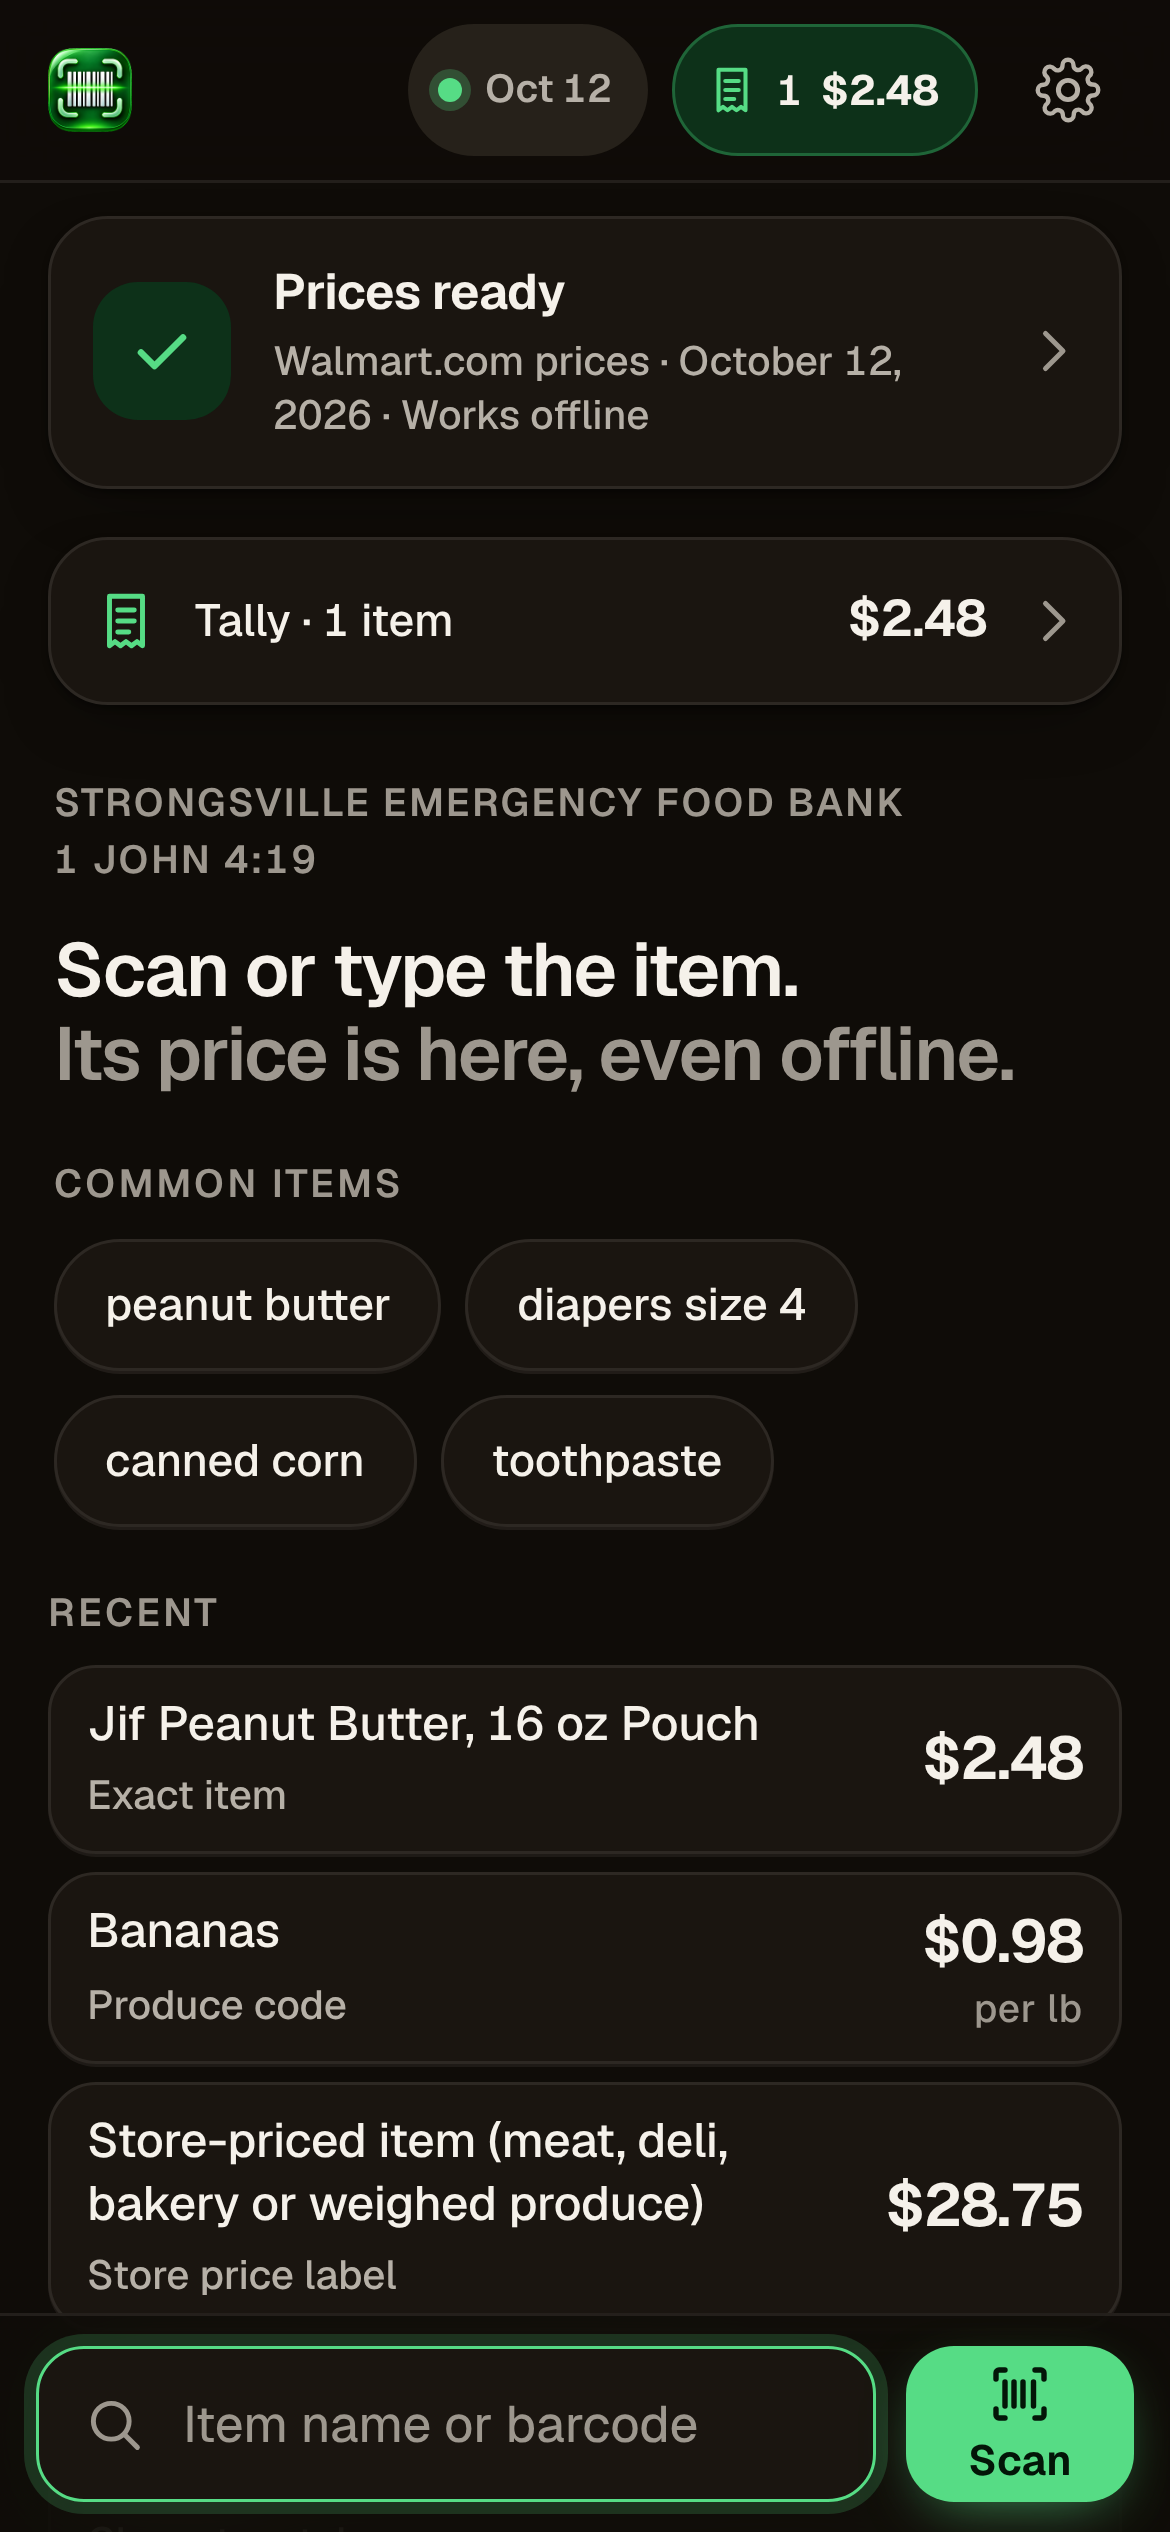
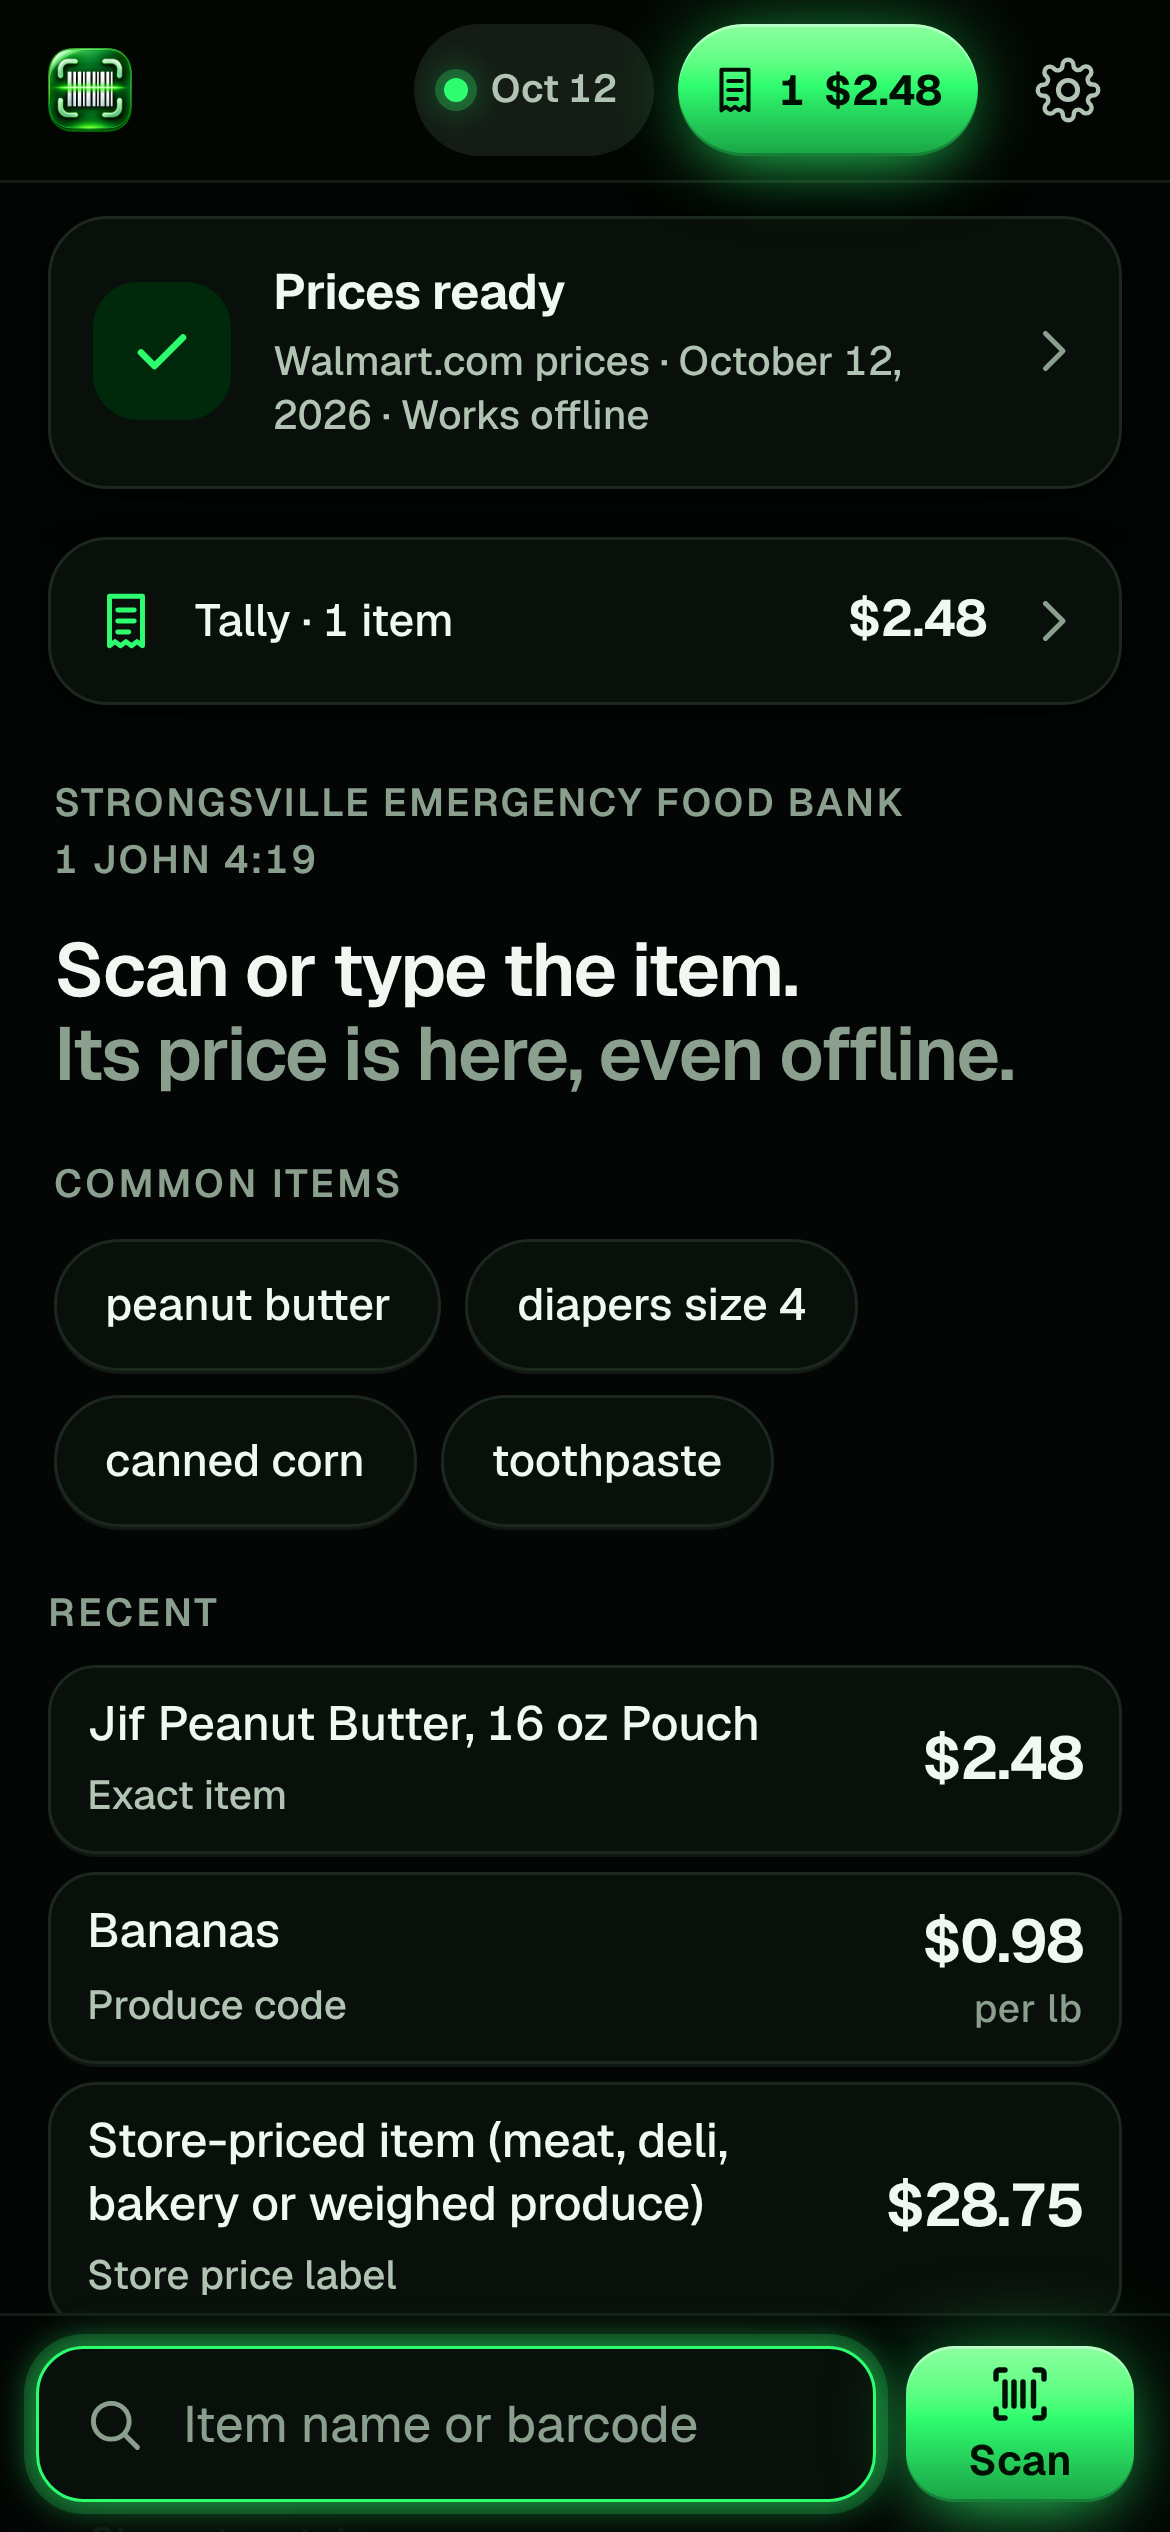
App colour scheme: neon green on black in the dark theme, glossy primary controls in both
Dark theme (owner): the app icon's own neon green on a near-black green-tinted background, with
gloss on the Scan button, the primary action, the tally pill and the switches (lit top edge, deeper
foot, a halo) and a glowing ready dot. Light theme: warm paper with the deep green and the same
gloss. Theme-colour metas follow. Tokens --gloss-hi, --gloss-lo, --glow and --glow-dot in app.css.

Verified on the built app in Chromium, light and dark, three sizes: audit clean (no contrast
failures, no small text, no page errors). Screenshots refreshed.

Claude-Session: https://claude.ai/code/session_01XgfKgQNjHJmxSNKm1G3Yfj

diff --git a/app/public/app.css b/app/public/app.css
@@ -645,3 +645,65 @@ html:has(dialog[open]), html:has(.scanner:not([hidden])) { overflow: hidden; }
 .howto-card { padding: 14px 16px 12px; border-radius: var(--r-l); border: 1px dashed var(--line-2); background: color-mix(in oklab, var(--surface) 60%, transparent); }
 .howto-card .h2 { margin-bottom: 4px; }
 .howto-card .howto { font-size: 14.5px; padding-left: 20px; }
+
+/* ---------- 2026-10-12: colour scheme ----------
+   Dark: neon green on black, the app icon's own green and gloss (owner). Light: warm paper, deep green, the same gloss.
+   --glow is the dark theme's halo on the primary controls and the ready dot; it is transparent in light. */
+:root {
+  --accent: oklch(46% 0.16 150); --exact: oklch(46% 0.16 150);
+  --accent-soft: oklch(93% 0.05 150); --accent-line: oklch(78% 0.1 150);
+  --surface: oklch(99.6% 0.002 90);
+  --gloss-hi: color-mix(in oklab, var(--accent) 78%, white);
+  --gloss-lo: color-mix(in oklab, var(--accent) 80%, black);
+  --glow: 0 0 0 0 transparent;
+  --glow-dot: 0 0 0 0 transparent;
+}
+@media (prefers-color-scheme: dark) {
+  :root:not([data-theme="light"]) {
+    --bg: oklch(11.5% 0.012 150); --bg-2: oklch(9% 0.01 150);
+    --surface: oklch(16% 0.014 150); --surface-2: oklch(21.5% 0.018 150);
+    --line: oklch(26% 0.022 150); --line-2: oklch(34% 0.03 150);
+    --ink: oklch(97% 0.012 150); --ink-2: oklch(80% 0.03 150); --ink-3: oklch(68% 0.035 150);
+    --accent: oklch(87% 0.24 148); --exact: oklch(87% 0.24 148);
+    --accent-ink: oklch(15% 0.05 150); --accent-soft: oklch(24% 0.07 150); --accent-line: oklch(50% 0.15 150);
+    --label: oklch(80% 0.13 250); --plu: oklch(88% 0.17 125); --equiv: oklch(86% 0.16 78); --closest: oklch(78% 0.16 35); --live: oklch(82% 0.13 205); --danger: oklch(72% 0.19 25);
+    --gloss-hi: color-mix(in oklab, var(--accent) 70%, white);
+    --gloss-lo: color-mix(in oklab, var(--accent) 72%, black);
+    --glow: 0 0 30px -6px color-mix(in oklab, var(--accent) 65%, transparent);
+    --glow-dot: 0 0 12px 1px color-mix(in oklab, var(--accent) 55%, transparent);
+    --toast-accent: oklch(44% 0.15 150);
+    --shadow: 0 1px 2px oklch(0% 0 0 / .5), 0 8px 24px -12px oklch(0% 0 0 / .7);
+  }
+}
+:root[data-theme="dark"] {
+  --bg: oklch(11.5% 0.012 150); --bg-2: oklch(9% 0.01 150);
+  --surface: oklch(16% 0.014 150); --surface-2: oklch(21.5% 0.018 150);
+  --line: oklch(26% 0.022 150); --line-2: oklch(34% 0.03 150);
+  --ink: oklch(97% 0.012 150); --ink-2: oklch(80% 0.03 150); --ink-3: oklch(68% 0.035 150);
+  --accent: oklch(87% 0.24 148); --exact: oklch(87% 0.24 148);
+  --accent-ink: oklch(15% 0.05 150); --accent-soft: oklch(24% 0.07 150); --accent-line: oklch(50% 0.15 150);
+  --label: oklch(80% 0.13 250); --plu: oklch(88% 0.17 125); --equiv: oklch(86% 0.16 78); --closest: oklch(78% 0.16 35); --live: oklch(82% 0.13 205); --danger: oklch(72% 0.19 25);
+  --gloss-hi: color-mix(in oklab, var(--accent) 70%, white);
+  --gloss-lo: color-mix(in oklab, var(--accent) 72%, black);
+  --glow: 0 0 30px -6px color-mix(in oklab, var(--accent) 65%, transparent);
+  --glow-dot: 0 0 12px 1px color-mix(in oklab, var(--accent) 55%, transparent);
+  --toast-accent: oklch(44% 0.15 150);
+  --shadow: 0 1px 2px oklch(0% 0 0 / .5), 0 8px 24px -12px oklch(0% 0 0 / .7);
+}
+/* gloss: a lit top edge, a deeper foot, a halo in the dark */
+.scan-btn, .btn--accent, .tally-pill, .stale .btn {
+  background-image: linear-gradient(180deg, var(--gloss-hi) 0%, var(--accent) 46%, var(--gloss-lo) 100%);
+  background-color: var(--accent); color: var(--accent-ink); border: 0;
+  box-shadow: inset 0 1px 0 color-mix(in oklab, white 40%, transparent), inset 0 -1px 0 color-mix(in oklab, black 22%, transparent),
+              0 8px 22px -10px color-mix(in oklab, var(--accent) 70%, transparent), var(--glow);
+}
+.scan-btn:active, .btn--accent:active { filter: brightness(.94); }
+.stale .btn { background-image: none; background-color: var(--ink); color: var(--bg); box-shadow: none; }
+.tally-pill { font-weight: 700; }
+.tally-pill .ico { color: var(--accent-ink); }
+.status[data-state="ready"] .dot { background: var(--accent); box-shadow: 0 0 0 3px color-mix(in oklab, var(--accent) 25%, transparent), var(--glow-dot); }
+.rc-ico, .data-ico, .tally-strip .ico, .live-row .ico { filter: drop-shadow(0 0 0 transparent); }
+.switch[aria-checked="true"] { background-image: linear-gradient(180deg, var(--gloss-hi), var(--accent) 60%); box-shadow: var(--glow-dot); }
+.search:focus-within { border-color: var(--accent); box-shadow: 0 0 0 4px color-mix(in oklab, var(--accent) 18%, transparent), var(--glow-dot); }
+.reticle .laser { background: linear-gradient(90deg, transparent, oklch(87% 0.24 148), transparent); box-shadow: 0 0 14px oklch(87% 0.24 148); }
+.scanner.is-hit .reticle i { border-color: oklch(87% 0.24 148); }

diff --git a/app/public/js/app.js b/app/public/js/app.js
@@ -80,7 +80,7 @@ function applyTheme() {
   const root = document.documentElement;
   if (prefs.theme === "auto") delete root.dataset.theme; else root.dataset.theme = prefs.theme;
   const dark = prefs.theme === "dark" || (prefs.theme === "auto" && matchMedia("(prefers-color-scheme: dark)").matches);
-  document.querySelectorAll('meta[name="theme-color"]').forEach((m) => { m.content = dark ? "#141311" : "#f7f5f0"; });
+  document.querySelectorAll('meta[name="theme-color"]').forEach((m) => { m.content = dark ? "#0a0d0b" : "#f7f5f0"; });
 }
 applyTheme();
 matchMedia("(prefers-color-scheme: dark)").addEventListener("change", applyTheme);

diff --git a/app/public/index.html b/app/public/index.html
@@ -7,7 +7,7 @@
   <meta name="description" content="Strongsville Emergency Food Bank. Scan or type a donated item to see its Walmart price, offline.">
   <meta name="color-scheme" content="light dark">
   <meta name="theme-color" media="(prefers-color-scheme: light)" content="#f7f5f0">
-  <meta name="theme-color" media="(prefers-color-scheme: dark)" content="#141311">
+  <meta name="theme-color" media="(prefers-color-scheme: dark)" content="#0a0d0b">
   <meta name="sfb-live-check" content="">
   <meta name="sfb-build" content="dev">
   <link rel="manifest" href="./manifest.webmanifest">

diff --git a/docs/DECISIONS.md b/docs/DECISIONS.md
@@ -69,6 +69,7 @@ Dated, current decisions; this file wins on conflict. A later entry that replace
 - 2026-10-09 — Downloads on the phone: three files at a time, three retries with back-off; a network failure stops the queue, says "No connection — prices will download when it's back" and retries every 30 s. Updates apply one at a time; unused files are pruned after a swap.
 - 2026-10-09 — Search scores one candidate budget (about 400) shared by the shards in proportion to their matches, at least 40 each; head-noun matches fill up to half of a shard's share. Keystroke p95 12.8 ms at 4× CPU throttle; gold set 328/330.
 - 2026-10-09 — First runs in a browser show "Add this app to your Home Screen" (dismissable, remembered): on an iPhone with the Share › Add to Home Screen steps, because Safari clears a website's saved data after about a week without a visit and a Home Screen app keeps it; on Android with Chrome's own Install button. A full phone during a download says so with the megabytes missing (first install: status and details; later downloads: the header) instead of a generic error; a browser without DecompressionStream (before iOS 16.4) is told to update instead of failing.
+- 2026-10-12 — Colour scheme (owner): the dark theme is neon green on black, the app icon's own green and gloss (lit top edge, deeper foot, a halo on the primary controls and the ready dot); the light theme keeps warm paper with the deep green and the same gloss. Tokens in app.css (`--gloss-hi`, `--gloss-lo`, `--glow`, `--glow-dot`); the header shows the app icon itself.
 - 2026-10-12 — App wording and home layout (owner): every label and message uses plain, professional wording and the full name Strongsville Emergency Food Bank; nothing in the interface mentions sample data (the real snapshot replaces the fixture and the fixture is a CI stand-in only). The home screen is top-anchored (status card, tally strip, headline, common items, Home Screen card, Recent) so no screen height is left empty; Home comes back at the top (replaces "Home returns at its thumb end" below). The tally is visible from the first launch as a strip under the status card. 1 John 4:19 appears as a reference in the eyebrow line and under the tally, and in full once under Settings › About. The Scan button is sentence case; cards share one radius scale; the status pill no longer announces every download percentage to screen readers; the result sheet focuses its primary action.
 - 2026-10-12 — Scrolling: a new or refined search always opens at its best match by the search box (a re-run of the same search keeps the place); dragging the results on a phone puts the keyboard away; the fixed layout follows the visible area when iOS pans the page for the keyboard; a wheel over the header, the dock or a wide screen's margins scrolls the results; the page behind a sheet or the scanner never scrolls; Home returns at its thumb end. `app/tools/scroll-check.mjs` checks all of it in Chromium and WebKit (app-browsers.yml).
 - 2026-10-12 — Home screen and Settings for volunteers. Home: a readiness card first (prices ready / sample prices / downloading / offline / a problem, one line each, tap for Settings), then the headline, "Common items", the Home Screen card and Recent; the legend of result labels moved into Settings › About. The header pill shows the price date, not the item count. Settings shows only what a volunteer can change (appearance, buzz, live check) and needs to know (a Prices card: date, source, size on the phone, a best-effort-storage note, Check for new prices), then About (legend, small print, build) and Reset. Dropped from view: item, barcode and equivalent counts, "Opened in", the snapshot id (kept in About beside the build). The progress bar now hides once the other departments have arrived (it stayed full before).
